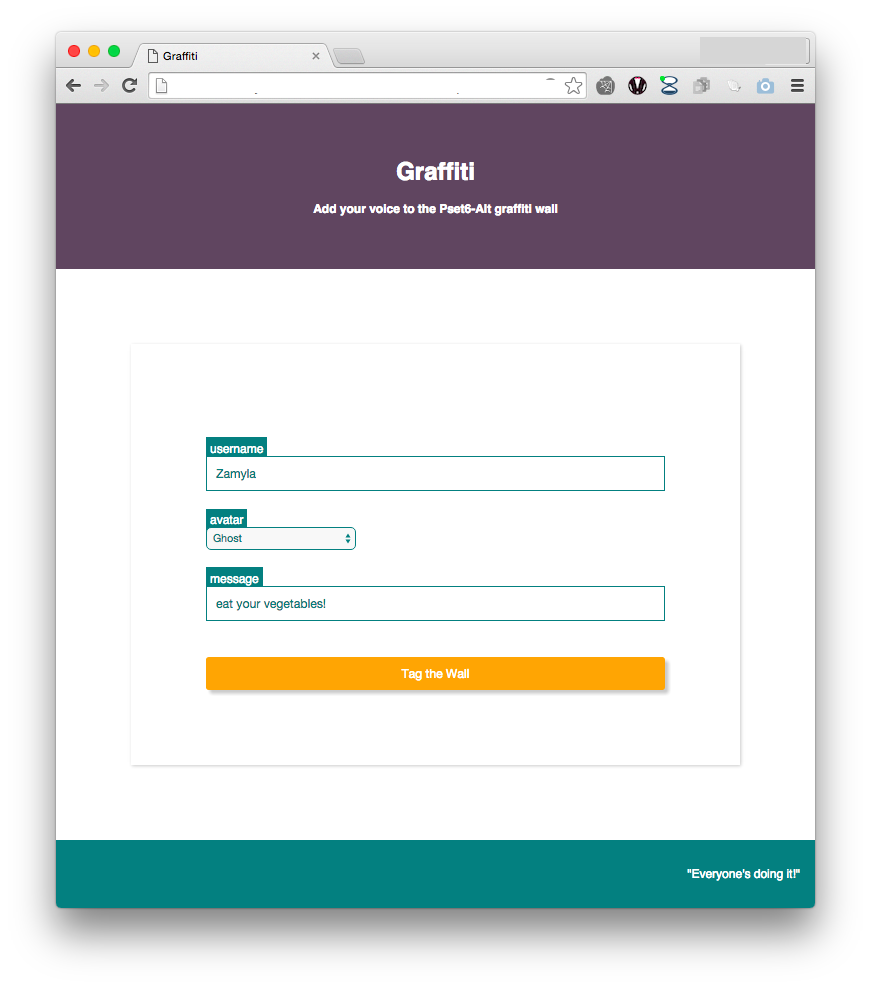
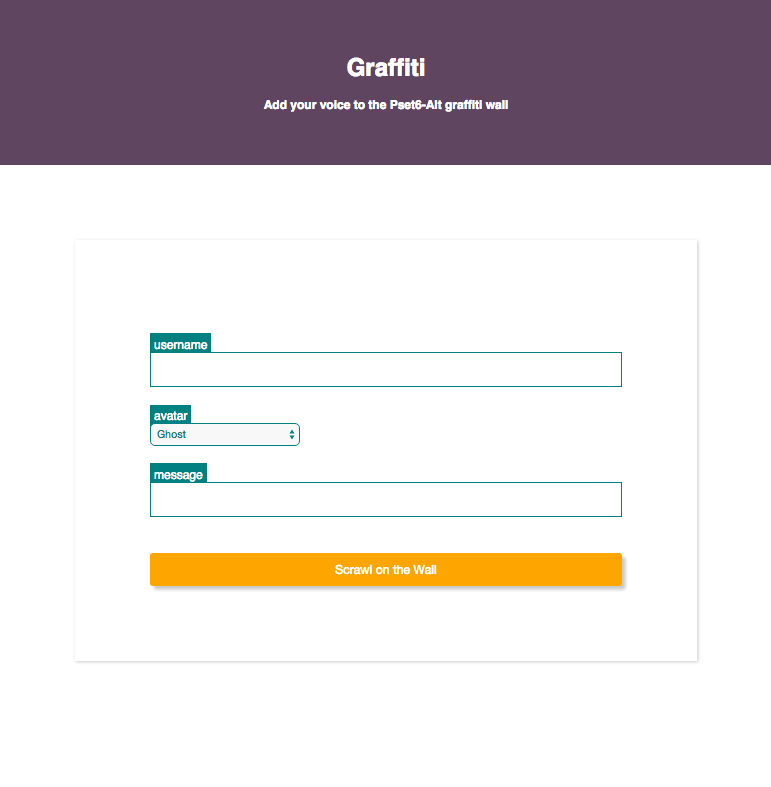
move stuff around

diff --git a/calendar/cs50/unit3-web/module6/materials/problem-set/pset6-alt/graffiti/gcomplete.html b/calendar/cs50/unit3-web/module6/materials/problem-set/pset6-alt/graffiti/gcomplete.html
@@ -10,7 +10,9 @@
 	</div>
 
 	<div class="card">
-	<form id="slackForm" method="POST" action="https://hooks.slack.com/services/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" >
+	<form id="slackForm" method="POST" action="https://hooks.slack.com/services/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" >
+		         <!--  -->
+		         <!-- T04PRM65E/B0QVC3J9H/83tQGiFW8DvX7jhVjVESo9dX -->
 		<div class="field">
 			<label>username</label>
 			<br/>
@@ -22,7 +24,7 @@
 			<br/>
 			<select name="icon_emoji" form="slackForm">
 				<option value=":ghost:">Ghost</option>
-				<option value=":banana:">Banana</option>
+				<option value=":eggplant:">Eggplant</option>
 			</select>
 		</div>
 
@@ -32,18 +34,14 @@
 			<input name="text" type="text"/>
 		</div>
 
-		<input name="channel" value="#pset6-alt" type="hidden"/>
+		<input name="channel" value="#GraffitiWall" type="hidden"/>
 		<input type="hidden" id="payload" name="payload"/>
 		<br/>
 
-		<input id="button" type="submit" value="Tag the Wall"/>
+		<input id="button" type="submit" value="Scrawl on the Wall"/>
 	</form>
 	</div>
 
-
-	<div class="footer">
-		<p>"Everyone's doing it!"</p>
-	</div>
 
 	<script src="https://ajax.googleapis.com/ajax/libs/jquery/1.8.3/jquery.min.js"></script>
 	<script src="http://code.jquery.com/ui/1.9.2/jquery-ui.js"></script>

diff --git a/calendar/cs50/unit3-web/module6/materials/problem-set/pset6-alt/graffiti/constructRequest.js b/calendar/cs50/unit3-web/module6/materials/problem-set/pset6-alt/graffiti/constructRequest.js
@@ -1,27 +1,20 @@
+var slackForm = document.getElementById("slackForm");
+
+slackForm.onsubmit = populatePayloadField;
+
+function populatePayloadField() {
+	var formData = getFormData();
+	delete formData.payload;
+	jsonString = JSON.stringify(formData);
+	document.getElementById("payload").value = jsonString;
+};
 
 function getFormData() {
-	var obj = {};
+	var object = {};
 	var fields = $("#slackForm").serializeArray();
-	console.log(fields);
 	for (var i = 0; i < fields.length; i++) {
 		var field = fields[i];
-		obj[field.name] = field.value;
-		console.log(obj);
+		object[field.name] = field.value;
 	}
-	return obj;
+	return object;
 }
-
-getFormData();
-
-function handleSubmit(event) {
-	var formData = getFormData();
-	jsonString = JSON.stringify(formData);
-	event.preventDefault();
-	document.getElementById("payload").value = jsonString
-}
-
-$("#slackForm").submit(function(event) {
-	var formData = getFormData();
-	jsonString = JSON.stringify(formData);
-	document.getElementById("payload").value = jsonString
-});
